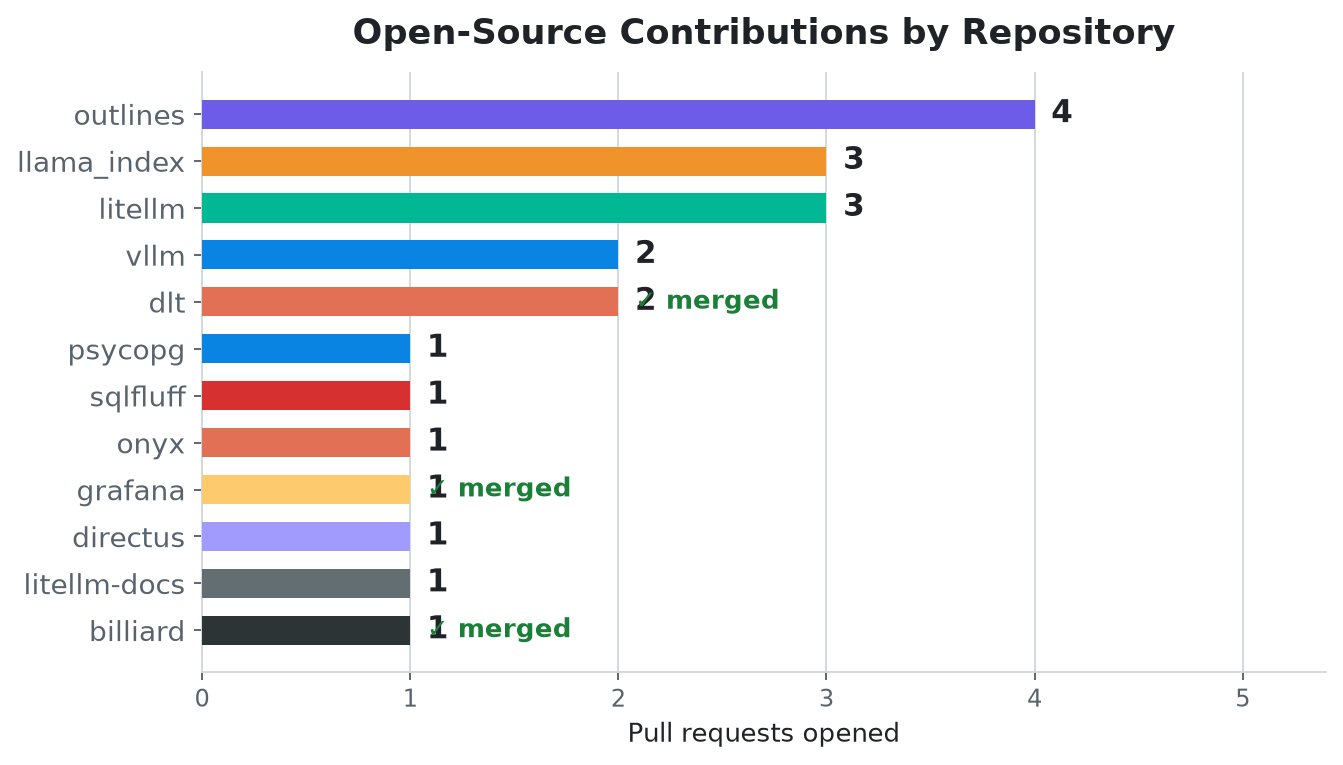
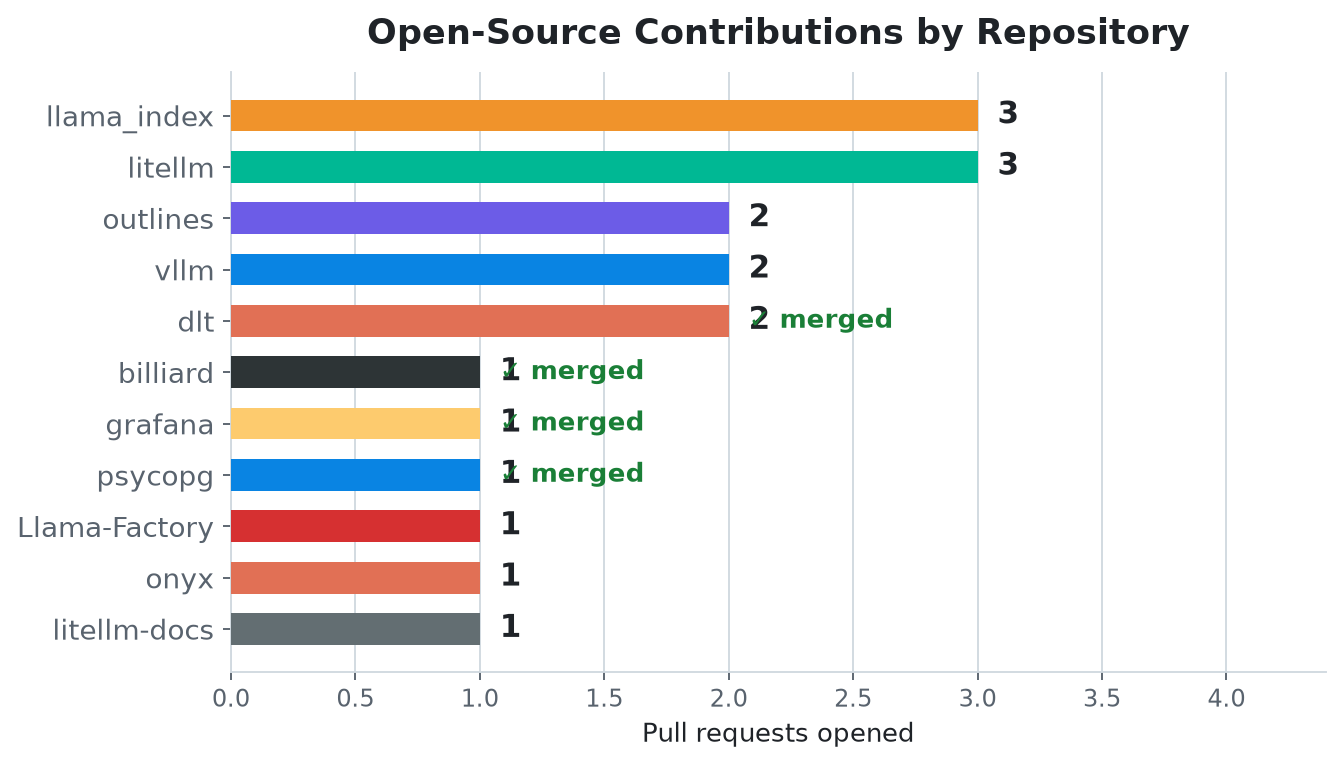
docs: reflect 4th merge (psycopg #1383); contribution status now 4 merged / 14 open

diff --git a/scripts/generate_charts.py b/scripts/generate_charts.py
@@ -112,21 +112,20 @@ print("wrote assets/merge_gate.png and assets/triage_attrition.png")
 
 
 # ---------------------------------------------------------------- chart 3
-# Contributions by repository, all-time via `gh` as of 2026-08-19.
+# Contributions by repository, live PRs (open + merged), via `gh` as of 2026-08-28.
 fig, ax = plt.subplots(figsize=(8, 4.6), dpi=170)
 repos = [
-    ("outlines", 4, "#6c5ce7"),
     ("llama_index", 3, "#f0932b"),
     ("litellm", 3, "#00b894"),
+    ("outlines", 2, "#6c5ce7"),
     ("vllm", 2, "#0984e3"),
     ("dlt", 2, "#e17055"),
-    ("psycopg", 1, "#0984e3"),
-    ("sqlfluff", 1, "#d63031"),
-    ("onyx", 1, "#e17055"),
-    ("grafana", 1, "#fdcb6e"),
-    ("directus", 1, "#a29bfe"),
-    ("litellm-docs", 1, "#636e72"),
     ("billiard", 1, "#2d3436"),
+    ("grafana", 1, "#fdcb6e"),
+    ("psycopg", 1, "#0984e3"),
+    ("Llama-Factory", 1, "#d63031"),
+    ("onyx", 1, "#e17055"),
+    ("litellm-docs", 1, "#636e72"),
 ]
 repos = sorted(repos, key=lambda r: -r[1])
 names = [r[0] for r in repos]
@@ -139,7 +138,7 @@ for bar, c in zip(ax.patches, counts):
             str(c), va="center", ha="left", fontsize=13, fontweight="bold", color=INK)
 # mark merged repos
 for i, n in enumerate(names):
-    if n in ("billiard", "grafana", "dlt"):
+    if n in ("billiard", "dlt", "grafana", "psycopg"):
         ax.text(counts[i] + 0.08, i, "\u2713 merged", va="center", ha="left",
                 fontsize=11, color=GREEN, fontweight="bold")
 ax.set_yticks(y)
@@ -158,13 +157,13 @@ plt.close(fig)
 # ---------------------------------------------------------------- chart 4
 # Contribution status: merged vs open.
 fig, ax = plt.subplots(figsize=(5.4, 4.4), dpi=170)
-merged, open_prs = 3, 17
+merged, open_prs = 4, 14
 sizes = [merged, open_prs]
 labels = ["Merged", "Open"]
 donut_colors = [GREEN, "#74b9ff"]
 wedges, _ = ax.pie(sizes, colors=donut_colors, startangle=90, counterclock=False,
                    explode=(0.04, 0), wedgeprops=dict(width=0.42, edgecolor="white", linewidth=2))
-ax.text(0, 0.06, "20", ha="center", va="center", fontsize=34, fontweight="bold", color=INK)
+ax.text(0, 0.06, "18", ha="center", va="center", fontsize=34, fontweight="bold", color=INK)
 ax.text(0, -0.24, "PRs total", ha="center", va="center", fontsize=12, color=MUTED)
 ax.legend(wedges, [f"{l}  ({s})" for l, s in zip(labels, sizes)],
           loc="lower center", bbox_to_anchor=(0.5, -0.1), ncol=2, frameon=False, fontsize=11)

diff --git a/README.ko.md b/README.ko.md
@@ -127,11 +127,11 @@ bash scripts/package_skill.sh
 
 ### 실제로 만들어낸 것
 
-이 스킬이 아무것도 없는 상태에서 찾아내고 근본 원인까지 특정한 PR 스무 건 — 그중 세 건은 이미 머지됐고, 나머지는 리뷰 중입니다:
+이 스킬이 아무것도 없는 상태에서 찾아내고 근본 원인까지 특정한 PR 열여덟 건 — 그중 네 건은 이미 머지됐고, 나머지는 리뷰 중입니다:
 
 <div align="center">
   <img src="./assets/contributions-by-repo.png" alt="레포별 오픈소스 기여" width="720">
-  <img src="./assets/contribution-status.png" alt="기여 상태: 머지 3, 오픈 17" width="420">
+  <img src="./assets/contribution-status.png" alt="기여 상태: 머지 4, 오픈 14" width="420">
 </div>
 
 | PR | 버그 | 상태 |
@@ -139,22 +139,23 @@ bash scripts/package_skill.sh
 | [celery/billiard#452](https://github.com/celery/billiard/pull/452) | 워커 예외가 래핑되어 `BaseException`이 호출자에게 전파되지 않음 | ✅ **머지됨** |
 | [dlt-hub/dlt#4367](https://github.com/dlt-hub/dlt/pull/4367) | `lag`가 `last_value`가 정확히 `0`(falsy)일 때 커서를 되감음 | ✅ **머지됨** |
 | [grafana/grafana#130906](https://github.com/grafana/grafana/pull/130906) | 복사된 짧은 URL에 리소스 namespace가 org ID로 박힘; on-prem은 사용자 org를, Cloud는 생략 | ✅ **머지됨** |
+| [psycopg/psycopg#1383](https://github.com/psycopg/psycopg/pull/1383) | 바이너리 복사 필드 길이가 데이터를 초과하면 일반 오류 대신 `DataError`가 나야 함 | ✅ **머지됨** |
 | [run-llama/llama_index#22723](https://github.com/run-llama/llama_index/pull/22723) | Bedrock Cohere 모델이 `additional_kwargs`를 조용히 버려서 `output_dimension`이 API에 도달하지 못함 | 리뷰 중 |
 | [run-llama/llama_index#22724](https://github.com/run-llama/llama_index/pull/22724) | mcp 2.x `streamable_http_client`가 2-튜플을 반환하는데 `client.py`는 3-튜플로 풀고 있음 | 리뷰 중 |
 | [run-llama/llama_index#22725](https://github.com/run-llama/llama_index/pull/22725) | `Dispatcher.__init__`가 가변 리스트 기본값(`B006`)을 써서 핸들러 상태가 인스턴스 간 공유됨 | 리뷰 중 |
-| [dottxt-ai/outlines#2011](https://github.com/dottxt-ai/outlines/pull/2011) | SGLang 백엔드가 vLLM은 정상 전달하는 `whitespace_pattern`을 버림 | 리뷰 중 |
-| [dottxt-ai/outlines#2012](https://github.com/dottxt-ai/outlines/pull/2012) | `JsonSchema`/`CFG`가 `__eq__`만 정의하고 `__hash__`가 없어 해시 불가 | 리뷰 중 |
-| [dottxt-ai/outlines#2013](https://github.com/dottxt-ai/outlines/pull/2013) | `mlxlm.generate_batch`의 falsy 가드가 truthy-but-falsy 출력 타입을 통과시킴 | 리뷰 중 |
-| [dottxt-ai/outlines#2014](https://github.com/dottxt-ai/outlines/pull/2014) | `format_output_type`이 `__bool__`가 `False`인 로짓 프로세서를 버림 | 리뷰 중 |
+| [hiyouga/LLaMA-Factory#10759](https://github.com/hiyouga/LLaMA-Factory/pull/10759) | `top_p <= 0`, `repetition_penalty <= 0`이 설정 파싱 시 거부되지 않고 조용히 `1.0`으로 재작성됨 | 리뷰 중 |
 | [BerriAI/litellm#37163](https://github.com/BerriAI/litellm/pull/37163) | Redis 클러스터 종료 시 `None` 커넥션 풀 역참조로 빌링 플러시가 중단됨 | 리뷰 중 |
 | [BerriAI/litellm#37164](https://github.com/BerriAI/litellm/pull/37164) | `langfuse_otel`이 `/v1/rerank`의 observation output을 설정하지 않음 | 리뷰 중 |
+| [BerriAI/litellm#38477](https://github.com/BerriAI/litellm/pull/38477) | 프록시 오류/타임아웃 로그에 `litellm_call_id`가 없어 실패한 예외를 특정 요청과 매칭 불가 | 리뷰 중 |
 | [BerriAI/litellm-docs#912](https://github.com/BerriAI/litellm-docs/pull/912) | 문서가 없는 함수 `litellm.turn_on_message_logging`을 참조 | 리뷰 중 |
 | [vllm-project/vllm#52610](https://github.com/vllm-project/vllm/pull/52610) | `/v1/messages`가 `tool_result` 안의 `tool_reference` 항목에서 크래시 | 리뷰 중 |
 | [vllm-project/vllm#52787](https://github.com/vllm-project/vllm/pull/52787) | `DeepseekCompressor`의 `head_dim==512` 경로가 `has_cutedsl()` 없이 CuTe DSL을 import | 리뷰 중 |
-| [psycopg/psycopg#1383](https://github.com/psycopg/psycopg/pull/1383) | 바이너리 복사 필드 길이가 데이터를 초과하면 일반 오류 대신 `DataError`가 나야 함 | 리뷰 중 |
-| [sqlfluff/sqlfluff#8350](https://github.com/sqlfluff/sqlfluff/pull/8350) | Dockerfile의 고정되지 않은 `pip-tools`가 `pip-compile`을 깨뜨림 | 리뷰 중 |
 | [onyx-dot-app/onyx#14011](https://github.com/onyx-dot-app/onyx/pull/14011) | 이미지 없는 배치에도 비전 LLM 경고가 발생 | 리뷰 중 |
 | [dlt-hub/dlt#4373](https://github.com/dlt-hub/dlt/pull/4373) | 문서 사이드바 `Notifications` 카테고리를 `Alerts`로 변경 | 리뷰 중 |
+| [dottxt-ai/outlines#2011](https://github.com/dottxt-ai/outlines/pull/2011) | SGLang 백엔드가 vLLM은 정상 전달하는 `whitespace_pattern`을 버림 | 리뷰 중 |
+| [dottxt-ai/outlines#2012](https://github.com/dottxt-ai/outlines/pull/2012) | `JsonSchema`/`CFG`가 `__eq__`만 정의하고 `__hash__`가 없어 해시 불가 | 리뷰 중 |
+
+outlines의 다른 PR 두 개(#2013/#2014)와 sqlfluff(#8350)·directus(#28092)의 이전 시도는 리뷰 중 철회됐거나 대체됐습니다. 각각은 머지 수에 기여하기보다 문서화된 교훈(경쟁 PR 통합, AI 공개, 리뷰어 범위 확장)을 남겼습니다.
 | [directus/directus#28092](https://github.com/directus/directus/pull/28092) | M2A union에 프래그먼트를 쓰면 모든 필드가 `null` | 리뷰 중 |
 
 두 번째 실행이 깔때기를 더 잘 보여줍니다: 백엔드 레포 30곳 가용성 심사 → 기여 이슈가 열린 13곳 → 머지 게이트 통과 11곳 → **후보 이슈 229건 연결 PR 검사** → 아직 잡을 수 있는 26건 → `main`에서 버그 실재가 확인된 1건.
@@ -170,7 +171,7 @@ bash scripts/package_skill.sh
 
 ## 차트 재현
 
-머지 게이트와 트라이지 차트는 2026-08-12에 실측한 데이터만 사용하며, 측정 방법이 차트에 함께 적혀 있습니다. 기여 차트는 이 스킬로 연 PR들을 `gh`로 추적한 데이터입니다(2026-08-19 기준):
+머지 게이트와 트라이지 차트는 2026-08-12에 실측한 데이터만 사용하며, 측정 방법이 차트에 함께 적혀 있습니다. 기여 차트는 이 스킬로 연 PR들을 `gh`로 추적한 데이터입니다(2026-08-28 기준):
 
 ```bash
 python3 scripts/generate_charts.py

diff --git a/README.md b/README.md
@@ -127,11 +127,11 @@ Every rule in the checklist was added after it cost a real run something.
 
 ### What it has produced
 
-Twenty pull requests, each found and root-caused by the skill from a cold start — three already merged, the rest in review:
+Eighteen pull requests, each found and root-caused by the skill from a cold start — four already merged, the rest in review:
 
 <div align="center">
   <img src="./assets/contributions-by-repo.png" alt="Open-source contributions by repository" width="720">
-  <img src="./assets/contribution-status.png" alt="Contribution status: 3 merged, 17 open" width="420">
+  <img src="./assets/contribution-status.png" alt="Contribution status: 4 merged, 14 open" width="420">
 </div>
 
 | PR | Bug | State |
@@ -139,23 +139,23 @@ Twenty pull requests, each found and root-caused by the skill from a cold start 
 | [celery/billiard#452](https://github.com/celery/billiard/pull/452) | Worker exceptions were wrapped instead of propagating `BaseException` to the caller | ✅ **merged** |
 | [dlt-hub/dlt#4367](https://github.com/dlt-hub/dlt/pull/4367) | Incremental `lag` rewound the cursor when `last_value` was exactly `0` (falsy) | ✅ **merged** |
 | [grafana/grafana#130906](https://github.com/grafana/grafana/pull/130906) | Copied short URLs carried `orgId=org-5` because the resource namespace was used as the org ID; on-prem carries the user's org, Cloud omits it | ✅ **merged** |
+| [psycopg/psycopg#1383](https://github.com/psycopg/psycopg/pull/1383) | Binary copy field length exceeding data raised a generic error instead of `DataError` | ✅ **merged** |
 | [run-llama/llama_index#22723](https://github.com/run-llama/llama_index/pull/22723) | Bedrock Cohere models silently dropped `additional_kwargs`, so `output_dimension` never reached the API | In review |
 | [run-llama/llama_index#22724](https://github.com/run-llama/llama_index/pull/22724) | mcp 2.x `streamable_http_client` yields a 2-tuple but `client.py` still unpacked a 3-tuple | In review |
 | [run-llama/llama_index#22725](https://github.com/run-llama/llama_index/pull/22725) | `Dispatcher.__init__` used mutable list defaults (`B006`), sharing handler state between instances | In review |
-| [dottxt-ai/outlines#2011](https://github.com/dottxt-ai/outlines/pull/2011) | SGLang backend dropped `whitespace_pattern` that vLLM forwards correctly | In review |
-| [dottxt-ai/outlines#2012](https://github.com/dottxt-ai/outlines/pull/2012) | `JsonSchema`/`CFG` defined `__eq__` without `__hash__`, making them unhashable | In review |
-| [dottxt-ai/outlines#2013](https://github.com/dottxt-ai/outlines/pull/2013) | `mlxlm.generate_batch` used a falsy guard that let truthy-but-falsy output types bypass the check | In review |
-| [dottxt-ai/outlines#2014](https://github.com/dottxt-ai/outlines/pull/2014) | `format_output_type` discarded a logits processor whose `__bool__` returns `False` | In review |
+| [hiyouga/LLaMA-Factory#10759](https://github.com/hiyouga/LLaMA-Factory/pull/10759) | `top_p <= 0` and `repetition_penalty <= 0` were silently rewritten to `1.0` instead of rejected at config-parse time | In review |
 | [BerriAI/litellm#37163](https://github.com/BerriAI/litellm/pull/37163) | Redis cluster shutdown dereferenced a `None` connection pool, aborting billing flush | In review |
 | [BerriAI/litellm#37164](https://github.com/BerriAI/litellm/pull/37164) | `langfuse_otel` never set observation output for `/v1/rerank` | In review |
+| [BerriAI/litellm#38477](https://github.com/BerriAI/litellm/pull/38477) | Proxy error/timeout logs omitted `litellm_call_id`, making it impossible to correlate an exception with the request that failed | In review |
 | [BerriAI/litellm-docs#912](https://github.com/BerriAI/litellm-docs/pull/912) | Docs referenced nonexistent `litellm.turn_on_message_logging` | In review |
 | [vllm-project/vllm#52610](https://github.com/vllm-project/vllm/pull/52610) | `/v1/messages` crashed when a `tool_result` contained a `tool_reference` item | In review |
 | [vllm-project/vllm#52787](https://github.com/vllm-project/vllm/pull/52787) | `DeepseekCompressor`'s `head_dim==512` path imported CuTe DSL without a `has_cutedsl()` guard | In review |
-| [psycopg/psycopg#1383](https://github.com/psycopg/psycopg/pull/1383) | Binary copy field length exceeding data raised a generic error instead of `DataError` | In review |
-| [sqlfluff/sqlfluff#8350](https://github.com/sqlfluff/sqlfluff/pull/8350) | Unpinned `pip-tools` in the Dockerfile broke `pip-compile` | In review |
 | [onyx-dot-app/onyx#14011](https://github.com/onyx-dot-app/onyx/pull/14011) | Vision-LLM warning fired for batches without images | In review |
 | [dlt-hub/dlt#4373](https://github.com/dlt-hub/dlt/pull/4373) | Docs sidebar `Notifications` category renamed to `Alerts` | In review |
-| [directus/directus#28092](https://github.com/directus/directus/pull/28092) | GraphQL fragments on an M2A union resolved every field to `null` | In review |
+| [dottxt-ai/outlines#2011](https://github.com/dottxt-ai/outlines/pull/2011) | SGLang backend dropped `whitespace_pattern` that vLLM forwards correctly | In review |
+| [dottxt-ai/outlines#2012](https://github.com/dottxt-ai/outlines/pull/2012) | `JsonSchema`/`CFG` defined `__eq__` without `__hash__`, making them unhashable | In review |
+
+Two other outlines PRs (#2013/#2014) and older attempts on sqlfluff (#8350) and directus (#28092) were withdrawn or superseded during review; each taught a documented lesson (competing-PR consolidation, AI-disclosure, reviewer-widens-scope) rather than contributing to the merge count.
 
 The second run is the better illustration of the funnel: 30 backend repos screened for availability → 13 with open contribution issues → 11 through the merge gate → **229 candidate issues checked for linked PRs** → 26 still claimable → one with a defect verified live in `main`.
 
@@ -170,7 +170,7 @@ The second run is the better illustration of the funnel: 30 backend repos screen
 
 ## Reproducing the charts
 
-The merge-gate and triage charts come only from measurements taken on 2026-08-12, with the method printed on each chart; the contribution charts track PRs opened through this skill via `gh` (as of 2026-08-19):
+The merge-gate and triage charts come only from measurements taken on 2026-08-12, with the method printed on each chart; the contribution charts track PRs opened through this skill via `gh` (as of 2026-08-28):
 
 ```bash
 python3 scripts/generate_charts.py
